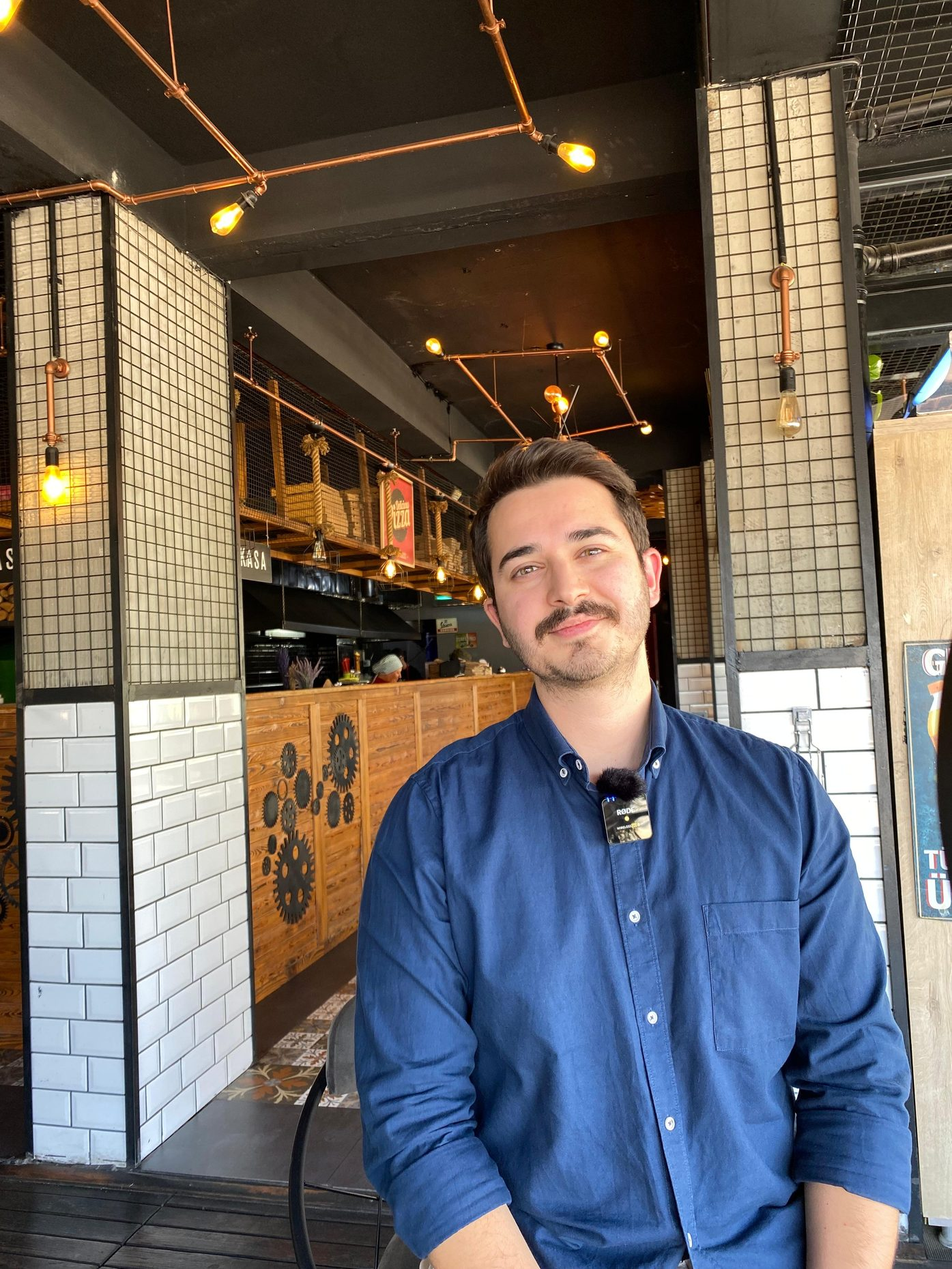
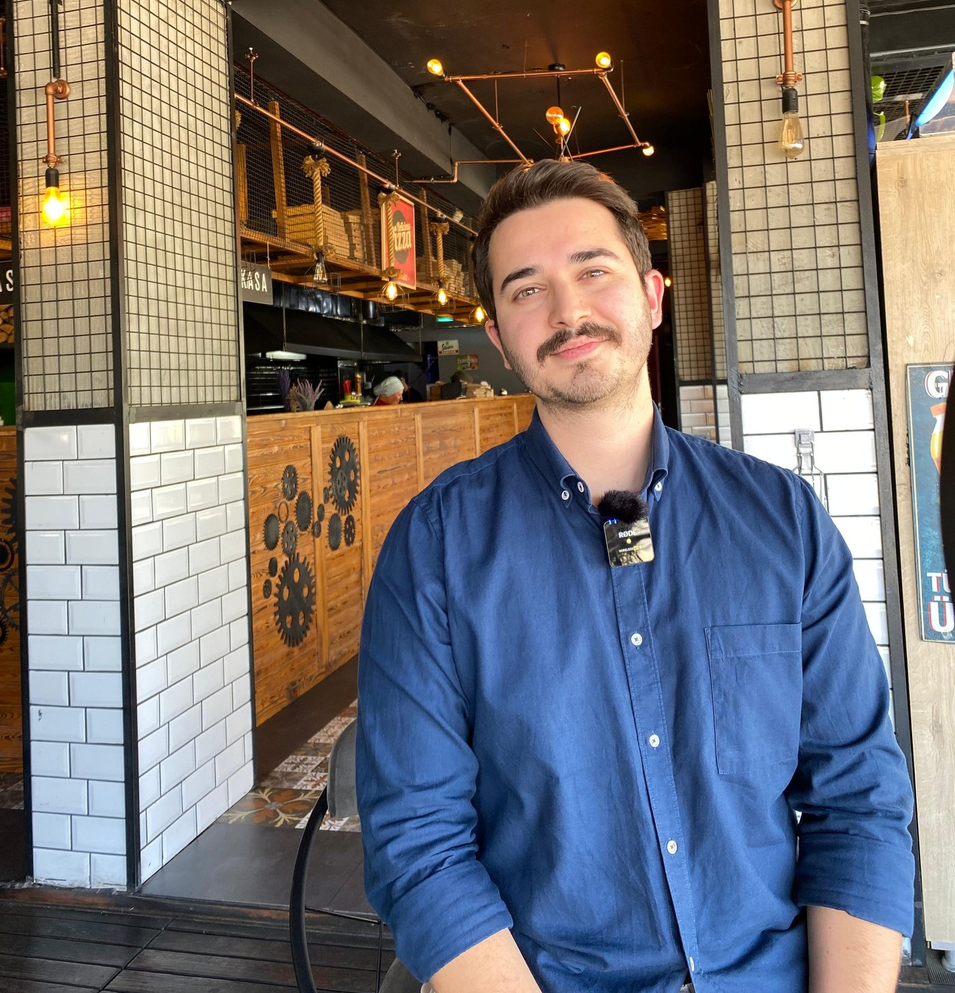
Recenter the hero portrait so the face sits higher in the crop (#9)
Trim extra ceiling from the photo and ease the object-position.

diff --git a/components/Portrait.tsx b/components/Portrait.tsx
@@ -29,7 +29,7 @@ export function Portrait({
           alt={`${site.name}, Aydın diyetisyen`}
           fill
           sizes="(max-width: 768px) 100vw, 480px"
-          className="object-cover object-[center_15%]"
+          className="object-cover object-[center_32%]"
           priority={priority}
         />
       ) : (
